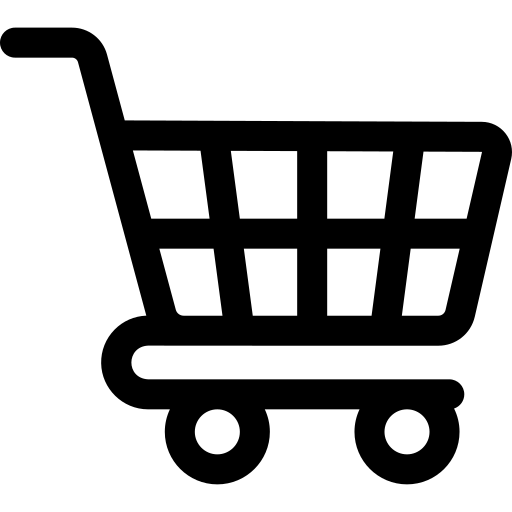
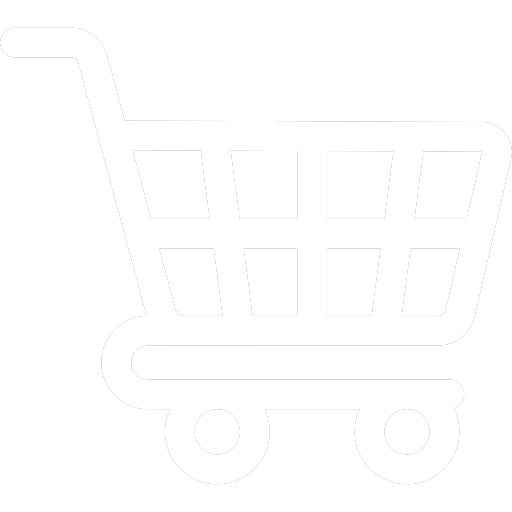
Add files via upload

diff --git a/header.css b/header.css
@@ -6,7 +6,7 @@ body {
                 display: flex;
                 justify-content: center;
                 align-items: center;
-                background-color: #ffee00d5;
+                background-color: #de0058;
                 height: 100px;
                 width: 100%;
                 position: sticky;
@@ -15,8 +15,8 @@ body {
             }
             .Home-button,.Catalog-button,.FAQ-button,
             .About-button,.Contact-button {
-                background-color: #ffee00d5;
-                color: rgba(0, 0, 0, 1);
+                background-color: #de0058;
+                color: rgb(224, 224, 224);
                 border: 0 solid #6411ff;
                 padding: 15px 30px;
                 border-radius: 50px;
@@ -27,7 +27,7 @@ body {
                 backface-visibility: hidden;
                 -webkit-font-smoothing: antialiased;
                 -moz-osx-font-smoothing: grayscale;
-                font-weight: 400;
+                font-weight: 500;
                 will-change: transform;
                 
             }
@@ -64,8 +64,8 @@ body {
             .Catalog-button:hover,
             .About-button:hover,.FAQ-button:hover,
             .Contact-button:hover {
-                background-color: #ffee00a9;
-                box-shadow: 0 4px 20px rgba(136, 136, 136, 0.288);
+                background-color: #ff3a89;
+                box-shadow: 0 4px 20px rgba(136, 136, 136, 0.4);
                 transform: scale(1.05);
             }
             .Home-button:active,
@@ -73,19 +73,18 @@ body {
             .FAQ-button:active,
             .About-button:active,
             .Contact-button:active {
-                background-color: #ffe066;
+                background-color: #de0058;
                 color: #222;
                 transition: all 0.1s ease;
             }
 
             .cart-icon:active {
-                background-color: #ffe066;              
-                border-radius: 20px;
+                background-color: #ff3a89;              
                 transition: all 0.1s ease;
             }
 
             body {
-                background-color: #ffefda;
+                background-color: #00805d;
                 font-family: Arial, sans-serif;
             }
 
@@ -173,7 +172,7 @@ body {
     .nav-links {
         flex-direction: column;
         width: 100%;
-        background: #ffee00;
+        background: #de0058;
         position: absolute;
         top: 100%;
         left: 0;
@@ -223,7 +222,7 @@ body {
 
 /* Hamburger (menu-toggle) active/clicked style */
 .menu-toggle:active {
-    background-color: #ffe066;
+    background-color: #de0058;
     color: #222;
     border-radius: 8px;
     box-shadow: 0 2px 10px rgba(136,136,136,0.18);
@@ -244,7 +243,7 @@ body {
     margin-bottom: 8px;
 }
 .footer-links-list a {
-    color: #ffee00;
+    color: #3f42ff;
     text-decoration: none;
     transition: color 0.2s;
 }

diff --git a/index.css b/index.css
@@ -57,11 +57,11 @@
 }
 
 .hero-button button {
-    background: #ffee00;
+    background: #ffcd09;
     color: #222;
 }
 .hero-button button:hover {
-    background: #ffa751;
+    background: #ff7809;
     color: #fff;
     transform: translateY(-2px) scale(1.05);
 }
@@ -116,8 +116,9 @@
 }
 .product-item {
     position: relative;
-    background: #fff;
-    border-radius: 16px;
+    background: #fff9da;
+    border-radius: 20px;
+    border: 9px solid #ffcd09;
     box-shadow: 0 4px 18px rgba(0,0,0,0.08);
     padding: 24px 16px 20px 16px;
     text-align: center;
@@ -151,7 +152,7 @@
     margin-bottom: 14px;
 }
 .product-item button {
-    background: #ffee00;
+    background: #ffcd09;
     color: #222;
     border: none;
     border-radius: 24px;
@@ -163,7 +164,7 @@
     box-shadow: 0 2px 8px rgba(0,0,0,0.04);
 }
 .product-item button:hover {
-    background: #ffa751;
+    background: #ffcd09;
     color: #fff;
     transform: translateY(-2px) scale(1.05);
 }
@@ -171,7 +172,7 @@
     position: absolute;
     top: 14px;
     right: 14px;
-    background: #ffee00;
+    background: #ffcd09;
     color: #222;
     font-size: 0.92rem;
     font-weight: 700;
@@ -210,7 +211,7 @@
     line-height: 1.7;
 }
 .about-button button {
-    background: #ffee00;
+    background: #ffcd09;
     color: #222;
     border: none;
     border-radius: 24px;
@@ -401,7 +402,7 @@
     line-height: 1.1;
 }
 .category-content button {
-    background: #ffee00;
+    background: #ffda00;
     color: #222;
     border: none;
     border-radius: 16px;

diff --git a/Footer.html b/Footer.html
@@ -2,7 +2,7 @@
             <div class="footer-content">
                 <div class="footer-section contact">
                     <h3>Contact Us</h3>
-                    <p>Email: <a href="mailto:nguyenyenchi2728@gmail.com">nguyenyenchi2728@gmail.com</a></p>
+                    <p>Email: <a href="mailto:xayxua.contact@gmail.com">xayxua.contact@gmail.com</a></p>
                     <p>Phone: <a href="tel:+1234567890">+1 234 567 890</a></p>
                     <p>Address: 123 Lego Street, Block City</p>
                 </div>
@@ -22,10 +22,10 @@
                 </div>
                 <div class="footer-section about">
                     <h3>About</h3>
-                    <p>We build creative Lego projects and share our passion with the world. Join us for more fun and inspiration!</p>
+                    <p>Xây Xưa là một tổ chức phi lợi nhuận được thành lập bởi một nhóm học sinh trường THPT Chuyên Đại học Sư phạm</p>
                 </div>
             </div>
             <div class="footer-bottom">
-                &copy; 2025 Lego Project. All rights reserved.
+                &copy; 2025 Xây Xưa. All rights reserved.
             </div>
         </footer>

diff --git a/Header.html b/Header.html
@@ -2,7 +2,7 @@
             <div class="middle-section">
                 <button class="menu-toggle" aria-label="Toggle menu">&#9776;</button>
                 <a href="index.html">
-                    <img class="Project-logo" src="img/xephinh.png" alt="Project Logo">
+                    <img class="Project-logo" src="img/ava.webp" alt="Project Logo">
                 </a>
                 <nav class="nav-links">
                     <a href="index.html" class="Home-link"><button class="Home-button">Home</button></a>

diff --git a/index.html b/index.html
@@ -3,8 +3,8 @@
     <head>
         <meta charset="UTF-8">
         <meta name="viewport" content="width=device-width, initial-scale=1.0">
-        <title>My Web Page</title>
-        <link rel="icon" href="Img/ChuBin.jpg" type="image/x-icon">
+        <title>Xây Xưa</title>
+        <link rel="icon" href="Img/avanobg.webp" type="image/x-icon">
         <link rel="stylesheet" href="header.css">
         <link rel="stylesheet" href="footer.css">
         <link rel="stylesheet" href="index.css">

diff --git a/catalog-data.js b/catalog-data.js
@@ -8,7 +8,7 @@ const catalogItems = [
         pieces: 1250,
         price: 149.99,
         featured: true,
-        description: "An incredible custom space station with modular sections, landing pad, and detailed interior. Perfect for space exploration enthusiasts!",
+        description: "A detailed model of a bustling train street scene, complete with moving trains and intricate buildings.",
         details: [
             "Difficulty Level: Hard",
             "Age Recommendation: 12+",

diff --git a/catalog.css b/catalog.css
@@ -1,10 +1,4 @@
-body {
-    background: #fdecd6;
-    font-family: 'Segoe UI', Arial, sans-serif;
-    margin: 0;
-    margin-bottom: 0 !important;
-    padding-bottom: 0 !important;
-}
+
 .catalog-page {
     display: flex;
     align-items: flex-start;
@@ -161,7 +155,7 @@ body {
     position: absolute;
     top: 18px;
     right: 18px;
-    background: #ffee00;
+    background: #ffda00;
     color: #222;
     font-size: 1rem;
     font-weight: 700;

diff --git a/About.html b/About.html
@@ -3,7 +3,8 @@
     <head>
         <meta charset="UTF-8">
         <meta name="viewport" content="width=device-width, initial-scale=1.0">
-        <title>My Web Page</title>
+        <title>Xây Xưa</title>
+        <link rel="icon" href="Img/avanobg.webp" type="image/x-icon">
         <link rel="stylesheet" href="header.css">
         <link rel="stylesheet" href="footer.css">
         <link rel="stylesheet" href="index.css">

diff --git a/Carting.html b/Carting.html
@@ -3,7 +3,8 @@
     <head>
         <meta charset="UTF-8">
         <meta name="viewport" content="width=device-width, initial-scale=1.0">
-        <title>My Web Page</title>
+        <title>Xây Xưa</title>
+        <link rel="icon" href="Img/avanobg.webp" type="image/x-icon">
         <link rel="stylesheet" href="header.css">
         <link rel="stylesheet" href="footer.css">
         <link rel="stylesheet" href="index.css">

diff --git a/Contact.html b/Contact.html
@@ -3,7 +3,8 @@
     <head>
         <meta charset="UTF-8">
         <meta name="viewport" content="width=device-width, initial-scale=1.0">
-        <title>My Web Page</title>
+        <title>Xây Xưa</title>
+        <link rel="icon" href="Img/avanobg.webp" type="image/x-icon">
         <link rel="stylesheet" href="header.css">
         <link rel="stylesheet" href="footer.css">
         <link rel="stylesheet" href="index.css">

diff --git a/FAQ.html b/FAQ.html
@@ -3,7 +3,8 @@
     <head>
         <meta charset="UTF-8">
         <meta name="viewport" content="width=device-width, initial-scale=1.0">
-        <title>My Web Page</title>
+        <title>Xây Xưa</title>
+        <link rel="icon" href="Img/avanobg.webp" type="image/x-icon">
         <link rel="stylesheet" href="header.css">
         <link rel="stylesheet" href="footer.css">
         <link rel="stylesheet" href="index.css">

diff --git a/Catalog.html b/Catalog.html
@@ -3,7 +3,8 @@
 <head>
     <meta charset="UTF-8">
     <meta name="viewport" content="width=device-width, initial-scale=1.0">
-    <title>Catalog</title>
+        <title>Xây Xưa</title>
+        <link rel="icon" href="Img/avanobg.webp" type="image/x-icon">
     <link rel="stylesheet" href="header.css">
     <link rel="stylesheet" href="footer.css">
     <link rel="stylesheet" href="catalog.css">
